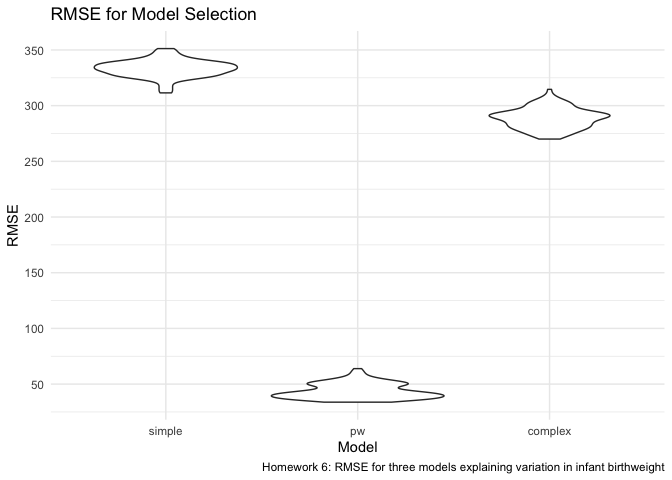
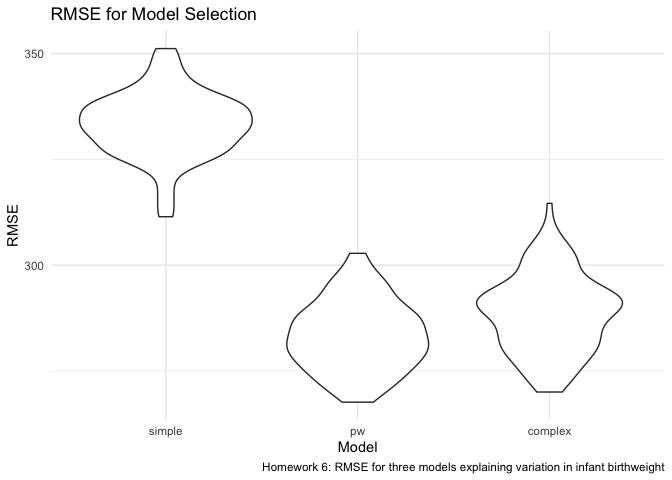
added a diagnostic plotm adjusted the model fit to include the changepoint after Margaret's explanation (and the subsequent plots). comment changes too. wouldn't knit until after I removed the CV cache (since it was drawing on an old cache which didn't have the cp).

diff --git a/p8105_hw6_eh2928.md b/p8105_hw6_eh2928.md
@@ -136,7 +136,7 @@ birthweight_df =
   select(-pnumlbw, -pnumsga)
 ```
 
-Let’s take a quick look.
+We took a quick look.
 
 ``` r
 summary(birthweight_df)
@@ -146,11 +146,17 @@ birthweight_df %>%
   geom_histogram()
 ```
 
-    ## `stat_bin()` using `bins = 30`. Pick better value with `binwidth`.
-
 <img src="p8105_hw6_eh2928_files/figure-gfm/plot-1.png" width="90%" />
 
-Fit a regression model and plot the model residuals against fitted
+``` r
+birthweight_df %>% 
+  ggplot(aes(x = bhead, y = bwt)) + 
+  geom_point()
+```
+
+<img src="p8105_hw6_eh2928_files/figure-gfm/plot-2.png" width="90%" />
+
+Now, fit a regression model and plot the model residuals against fitted
 values, using the original data frame. We’ll scale this into the
 cross-validated approach.
 
@@ -158,44 +164,45 @@ cross-validated approach.
 birthweight_df =
   birthweight_df %>% 
   mutate(
-    bwt_cp = (bwt > 2000) * (bwt - 2000)
+    bhead_cp = (bhead > 28) * (bhead - 28)
   )
 
-fit = lm(bwt ~ bhead + blength + blength*bhead + babysex + smoken + fincome + momage, data = birthweight_df)
+fit = lm(bwt ~ bhead + blength + blength*bhead + babysex + smoken + fincome + momage + bhead_cp, data = birthweight_df)
 summary(fit)
 ```
 
     ## 
     ## Call:
     ## lm(formula = bwt ~ bhead + blength + blength * bhead + babysex + 
-    ##     smoken + fincome + momage, data = birthweight_df)
+    ##     smoken + fincome + momage + bhead_cp, data = birthweight_df)
     ## 
     ## Residuals:
-    ##     Min      1Q  Median      3Q     Max 
-    ## -1163.2  -187.6    -7.2   179.7  2784.8 
+    ##      Min       1Q   Median       3Q      Max 
+    ## -1171.44  -189.63    -4.98   178.69  2539.96 
     ## 
     ## Coefficients:
     ##                 Estimate Std. Error t value Pr(>|t|)    
-    ## (Intercept)   -3666.4351   809.3565  -4.530 6.06e-06 ***
-    ## bhead            70.2449    24.6703   2.847 0.004429 ** 
-    ## blength          33.0379    16.9570   1.948 0.051440 .  
-    ## babysex2         43.3950     8.8407   4.909 9.51e-07 ***
-    ## smoken           -1.8271     0.5904  -3.095 0.001982 ** 
-    ## fincome           1.1424     0.1773   6.443 1.29e-10 ***
-    ## momage            4.5632     1.1868   3.845 0.000122 ***
-    ## bhead:blength     1.5605     0.5103   3.058 0.002243 ** 
+    ## (Intercept)   -4600.1719   809.3745  -5.684 1.41e-08 ***
+    ## bhead            53.1767    24.5339   2.167 0.030253 *  
+    ## blength         206.6642    25.9617   7.960 2.17e-15 ***
+    ## babysex2         40.3878     8.7709   4.605 4.25e-06 ***
+    ## smoken           -1.6707     0.5855  -2.853 0.004348 ** 
+    ## fincome           1.1593     0.1758   6.595 4.75e-11 ***
+    ## momage            4.4355     1.1766   3.770 0.000166 ***
+    ## bhead_cp        276.3438    31.4889   8.776  < 2e-16 ***
+    ## bhead:blength    -3.6232     0.7777  -4.659 3.28e-06 ***
     ## ---
     ## Signif. codes:  0 '***' 0.001 '**' 0.01 '*' 0.05 '.' 0.1 ' ' 1
     ## 
-    ## Residual standard error: 285.5 on 4334 degrees of freedom
-    ## Multiple R-squared:  0.6897, Adjusted R-squared:  0.6892 
-    ## F-statistic:  1376 on 7 and 4334 DF,  p-value: < 2.2e-16
+    ## Residual standard error: 283.1 on 4333 degrees of freedom
+    ## Multiple R-squared:  0.6951, Adjusted R-squared:  0.6945 
+    ## F-statistic:  1235 on 8 and 4333 DF,  p-value: < 2.2e-16
 
 ``` r
 AIC(fit)
 ```
 
-    ## [1] 61434.49
+    ## [1] 61359.99
 
 Plots, including the model residuals vs fitted values
 
@@ -238,18 +245,18 @@ errors but more to troubling and dangerous circumstances. By first
 determining that the data may not follow a linearly predictable trend
 for the whole birthweight distribution, I used the lecture example to
 make a simple cutpoint, and added it to concepts which (as a lay person)
-struck me as relevant for birthweight, from the most proximal of factors
-(head circumference and body length) to more distal (considering income
-as a proxy for structural and resource factors that may influence
-birthweight). Then, I applied this with information I obtained by
-comparing the two given models (as mentioned in live lecture, to make
-the problem workflow more efficient) and included an interaction. Then,
-I tested this model, and can see from the above plots from the
-Predictions versus Residuals plot that the predictions for lower
-birthweight tend be more biased for the model but may be appropriate for
-the bulk of the data. Then, I compared this model’s predictors
-coefficients, adjusted R-squared, and AIC to the given models, and
-decided to proceed.
+struck me as relevant to the birthweight outcome; I considered variables
+from the most proximal of factors (e.g. head circumference and body
+length) to more distal (e.g. income as a proxy for pre-birth structural
+and resource factors that may influence birthweight). Then, I applied
+this to information I obtained by comparing the two given models and
+included an interaction term. Then, I tested this model, and can see
+from the above plots from the Predictions versus Residuals plot that
+while the predictions for lower birthweight (and high) do appear less
+consistent than for the middle density of the data, and there are one or
+two outliers (see \~3500 grams), it may still be appropriate for the
+bulk of the data. Then, I compared this model’s predictors coefficients,
+adjusted R-squared, and AIC to the given models, and decided to proceed.
 
 Let’s compare the models. First, generate the cross validation
 dataframe.
@@ -269,7 +276,7 @@ cv_df =
   cv_df %>% 
   mutate(
     simple_model  = map(train, ~lm(bwt ~ bhead + gaweeks, data = .x)),
-    pw_model = map(train, ~lm(bwt ~ bhead + blength + blength*bhead + babysex + smoken + fincome + momage + bwt_cp, data = .x)),
+    pw_model = map(train, ~lm(bwt ~ bhead + blength + blength*bhead + babysex + smoken + fincome + momage + bhead_cp, data = .x)),
     complex_model  = map(train, ~lm(bwt ~ bhead + blength + babysex + bhead*blength + bhead*babysex + blength*babysex +  bhead*blength*babysex, data = .x))) %>% 
   mutate(
     rmse_simple = map2_dbl(simple_model, test, ~rmse(model = .x, data = .y)),
@@ -419,9 +426,14 @@ bootstrap_sim %>%
 
 <img src="p8105_hw6_eh2928_files/figure-gfm/rsquared-1.png" width="90%" />
 
+``` r
+bootstrap_sim %>% 
+  summary(r.squared)
+```
+
 The bootstrapped estimate of the r-squared value follows a slightly
 left-skewed distribution, with a mean of 0.9113 and median of 0.9116.
-Values range from 0.8743 to 0.9364 (quite a high r-squared value).
+Values range from 0.8771 to 0.9405 (quite a high r-squared value).
 
 ``` r
 bootstrap_sim %>% 
@@ -435,6 +447,11 @@ bootstrap_sim %>%
 ```
 
 <img src="p8105_hw6_eh2928_files/figure-gfm/transformed-1.png" width="90%" />
+
+``` r
+bootstrap_sim %>% 
+  summary(transform)
+```
 
 The bootstrapped estimate of the transformation value (natural log of
 beta\_0 times beta\_1) follows distribution with mean and median of
